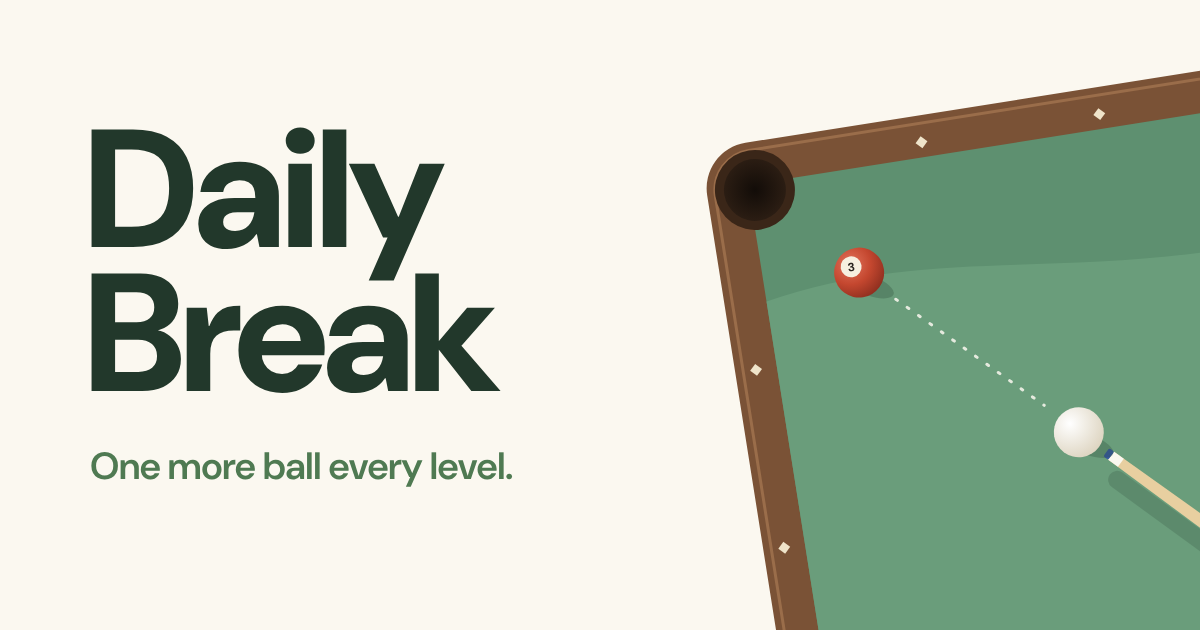
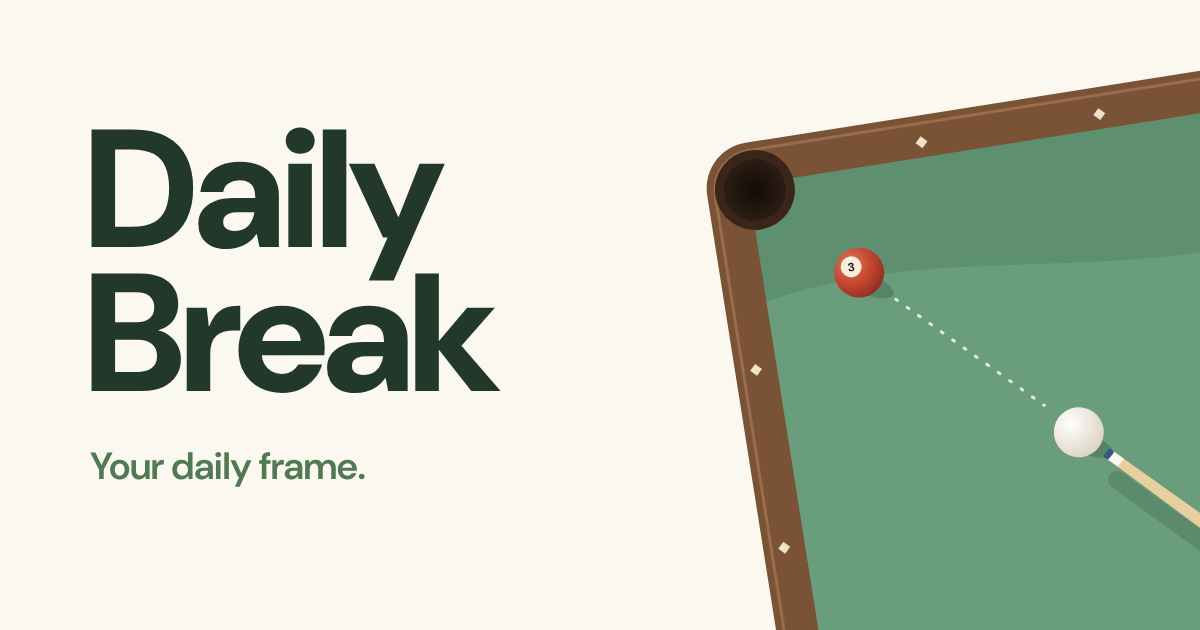
Preview card tagline: 'Your daily frame.'
Claude-Session: https://claude.ai/code/session_01VmGbx91Fgr5BqxdqZGd9df

Changed region(s): [[0.0617, 0.7238, 0.4317, 0.7841]]

diff --git a/index.html b/index.html
@@ -12,10 +12,10 @@
 <meta property="og:title" content="Daily Break - Daily Pool Game">
 <meta property="og:description" content="A new pool game every day. Pot one ball, then two, then three: how far can you get? See how your run ranks against other players.">
 <meta property="og:url" content="https://dailybreak.app/">
-<meta property="og:image" content="https://dailybreak.app/og.png?v=3">
+<meta property="og:image" content="https://dailybreak.app/og.png?v=4">
 <meta property="og:image:width" content="1200">
 <meta property="og:image:height" content="630">
-<meta property="og:image:alt" content="Daily Break: one more ball every level. A red ball lined up on a corner pocket.">
+<meta property="og:image:alt" content="Daily Break: your daily frame. A red ball lined up on a corner pocket.">
 <meta name="twitter:card" content="summary_large_image">
 <link rel="manifest" href="manifest.webmanifest">
 <link rel="icon" type="image/png" sizes="192x192" href="icon-192.png">

diff --git a/tools/og-card.html b/tools/og-card.html
@@ -41,5 +41,5 @@ svg{position:absolute;inset:0}</style></head><body>
     <circle cx="330" cy="338" r="25" fill="url(#cue)"/>
   </g>
 </svg>
-<div class="t"><h1>Daily<br>Break</h1><p>One more ball every level.</p></div>
+<div class="t"><h1>Daily<br>Break</h1><p>Your daily frame.</p></div>
 </body></html>

diff --git a/HANDOFF.md b/HANDOFF.md
@@ -122,9 +122,8 @@ post to the endpoint, so treat the numbers as a guide, not a leaderboard.
 - Near miss (`nearMiss`, from this device's history; the run end stores `left`, balls left on the
   table): new personal best › one ball off the next level › equal to your best › one level off it.
 
-Link preview card (11 Nov 2026): `static/og.png` is a flat illustration (wordmark, "One more ball every
-level.", a table corner with a ball lined up on the pocket), drawn in `tools/og-card.html` and
+Link preview card (11 Nov 2026): `static/og.png` is a flat illustration (wordmark, "Your daily frame.", a table corner with a ball lined up on the pocket), drawn in `tools/og-card.html` and
 rendered at 1200×630 with headless Chromium. `og:image` carries a `?v=` number so WhatsApp and others
 fetch the new picture; bump it when the card changes.
 
-Wording (11 Nov 2026): players never see the word "ladder" (it reads as a ranking table in the UK); it's "a new pool game every day", "one more ball every level", "Next game in…". Code names (`dailybreak:ladder:` keys, `ladderStats`) are unchanged so saved results keep working.
+Wording (11 Nov 2026): players never see the word "ladder" (it reads as a ranking table in the UK); it's "a new pool game every day", "Your daily frame." (tagline), "Next game in…". Code names (`dailybreak:ladder:` keys, `ladderStats`) are unchanged so saved results keep working.
